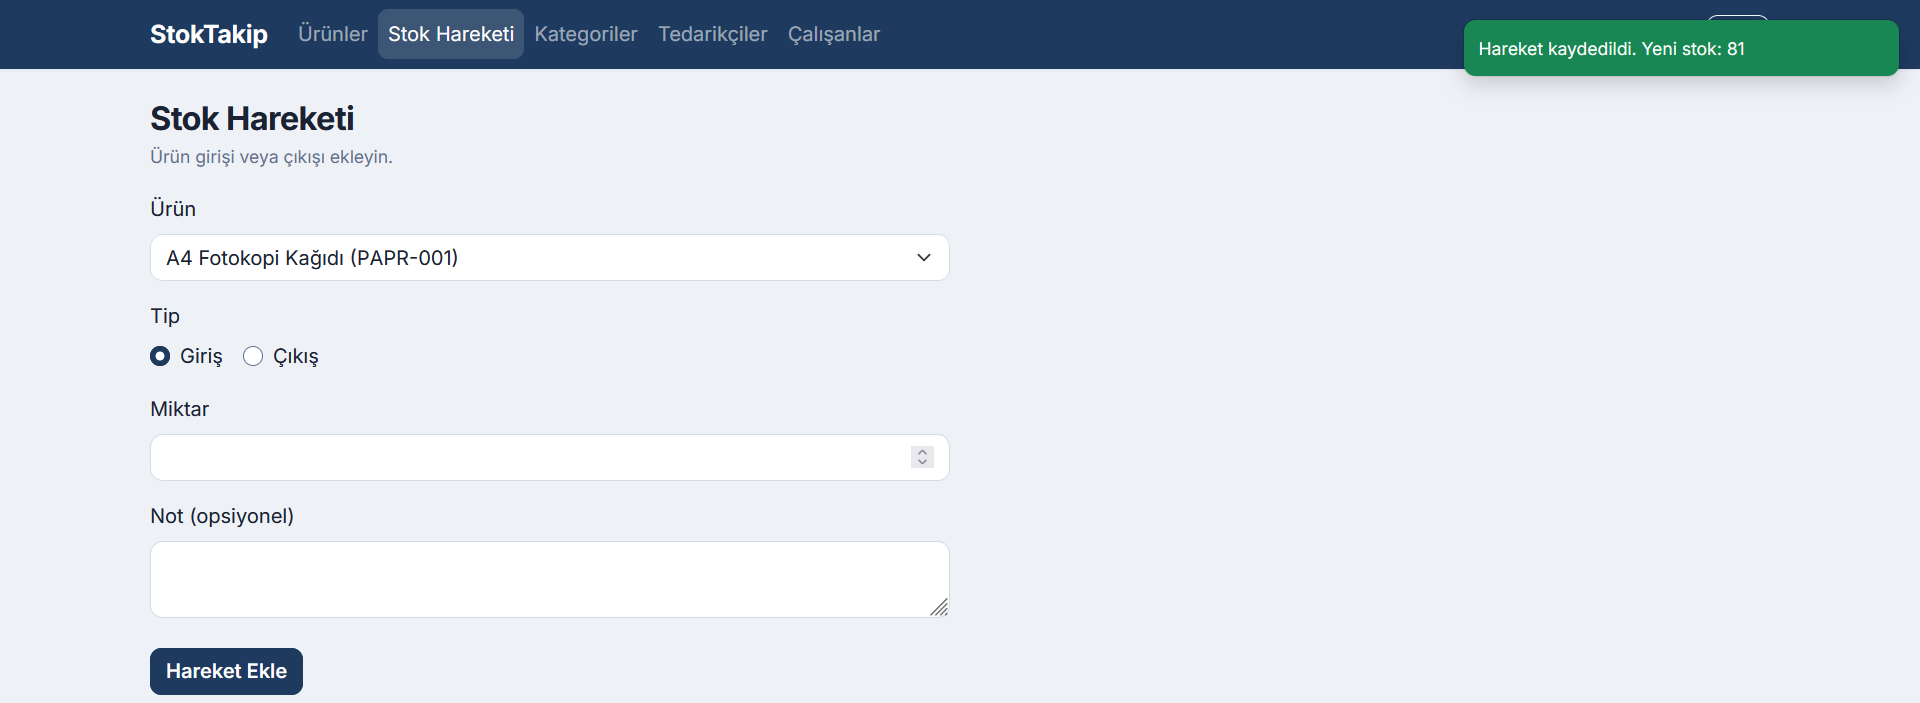
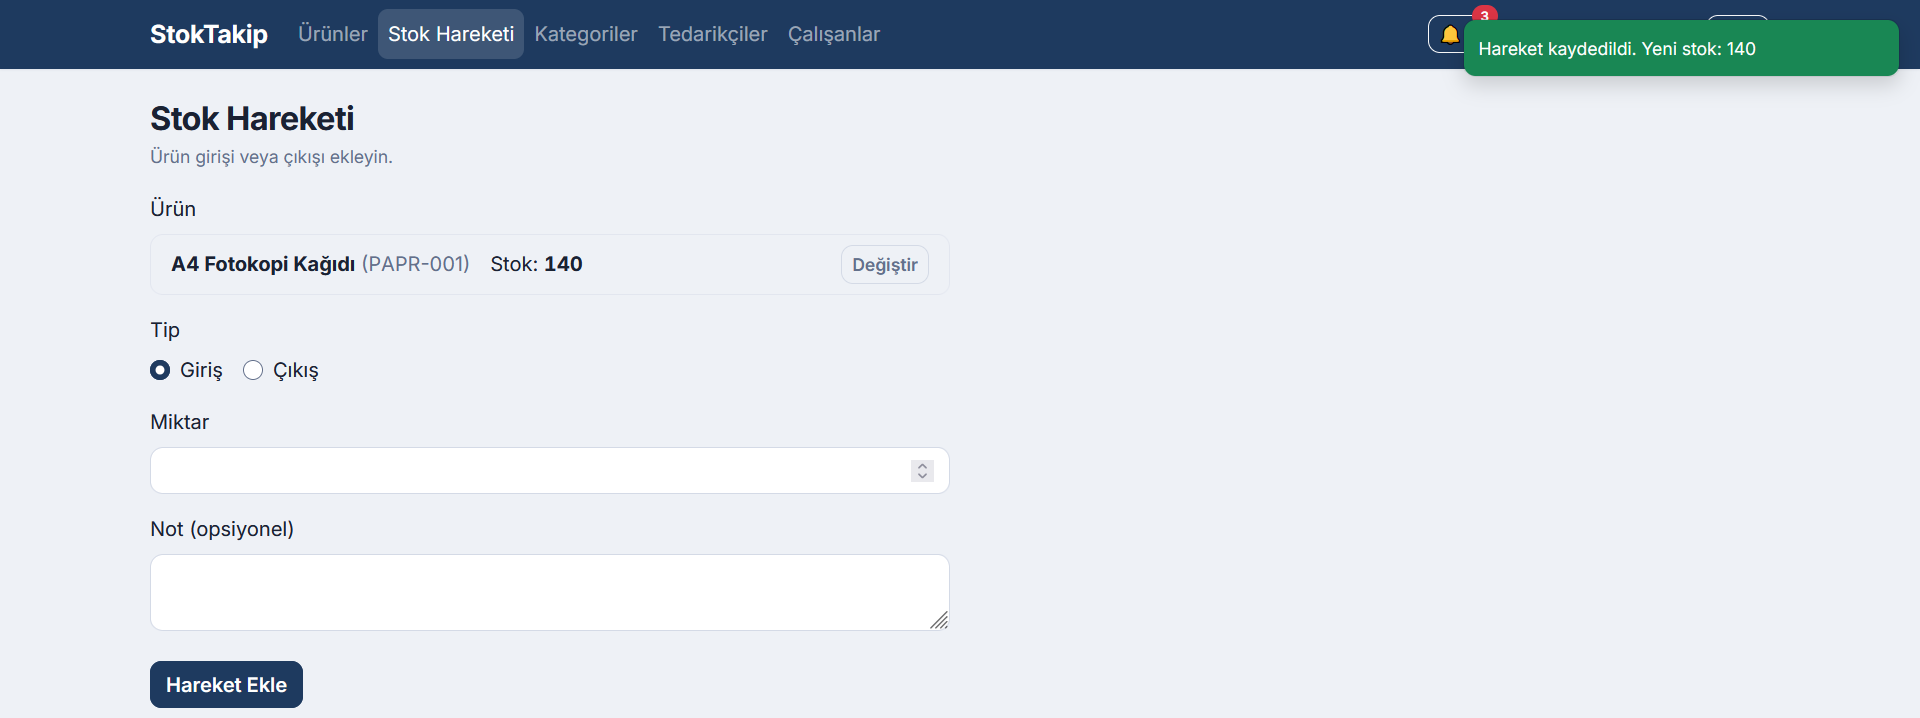
docs: README'yi gercek zamanli katmana gore guncelle
Ozellikler listesine canli envanter, bildirimler ve eszamanlilik korumasi
eklendi; urun filtreleri gercek haliyle yazildi (kategori, tedarikci, dusuk
stok, pasif). Teknolojilere SignalR ve @microsoft/signalr, nginx satirina
/hubs WebSocket upgrade eklendi. Mimari bolumunde hub'in Api katmaninda
oldugu ve Application'in SignalR'a referans vermedigi belirtildi. Seed
sayilari kesinlestirildi.

Ekran goruntuleri: stok hareketi yenilendi (bildirim zili ve urun secici),
bildirim paneli eklendi.

diff --git a/README.md b/README.md
@@ -18,8 +18,16 @@ admin'dedir.
 
 - Kategori, tedarikçi ve ürün için tam CRUD.
 - Stok giriş/çıkış hareketleri; hareket kaydı ile stok miktarı tek işlemde güncellenir.
-- Ürün araması (ad, SKU, kategori, tedarikçi) + kategori filtresi + sayfalama.
+- Ürün araması (ad, SKU, kategori, tedarikçi); kategori, tedarikçi, düşük stok ve pasif
+  kayıt filtreleri; sayfalama.
 - Düşük stok ve pasif ürün rozetleri, stok değeri özeti.
+- Gerçek zamanlı envanter: bir kullanıcının girdiği hareket, açık olan diğer oturumların
+  ürün listesinde ve özet kutularında sayfa yenilemeden görünür.
+- Bildirimler: düşük stok, tükenme ve yetersiz stok nedeniyle reddedilen çıkış olayları
+  admin'in zil rozetine anlık düşer. Kayıtlar veritabanında tutulur; admin çevrimdışıyken
+  üretilenler girişte görünür.
+- Eşzamanlılık koruması: aynı ürünü iki kişi aynı anda düzenlerse ikincisi çakışma uyarısı
+  alır, kayıp güncelleme oluşmaz.
 - Rol tabanlı yetkilendirme (Admin / Çalışan), JWT ile oturum.
 - Çift taraflı form doğrulama (backend DataAnnotations + frontend zod).
 
@@ -30,6 +38,7 @@ admin'dedir.
 - Entity Framework Core 10 + Npgsql (PostgreSQL sağlayıcısı)
 - PostgreSQL
 - ASP.NET Core Identity + JWT Bearer (rol tabanlı yetki: Admin / User — UI'da "Çalışan")
+- SignalR (gerçek zamanlı sinyal katmanı; hub yolu `/hubs/stok`)
 - Swagger (Swashbuckle) — yalnız geliştirme ortamında
 
 **Frontend**
@@ -38,10 +47,11 @@ admin'dedir.
 - react-hook-form + zod (form doğrulama)
 - Bootstrap 5 + react-bootstrap
 - axios (JWT interceptor)
+- @microsoft/signalr (hub istemcisi, otomatik yeniden bağlanma)
 
 **Altyapı**
 - Docker + Docker Compose (multi-stage build)
-- nginx (frontend statik sunum + `/api` ters proxy)
+- nginx (frontend statik sunum, `/api` ters proxy ve `/hubs` WebSocket upgrade)
 
 ### Mimari
 
@@ -58,7 +68,7 @@ graph TD
 - **Domain** — framework bağımsız POCO entity'ler ve enum.
 - **Application** — iş kuralları, servisler, DTO'lar; `IAppDbContext` soyutlaması üzerinden çalışır, veritabanı sağlayıcısını tanımaz.
 - **Infrastructure** — EF Core DbContext, migration'lar, seed, Identity ve JWT üretimi.
-- **Api** — ince controller'lar, bağımlılık kaydı, middleware.
+- **Api** — ince controller'lar, bağımlılık kaydı, middleware, SignalR hub'ı. Application yalnız framework bağımsız bir bildirim arayüzü tanır; SignalR'a referans vermez.
 
 ## Kurulum
 
@@ -80,8 +90,9 @@ Servisler ayağa kalktığında uygulama şu adreste hazırdır:
 **http://localhost:3000**
 
 Uygulama ilk açılışta veritabanı şemasını oluşturur ve örnek verilerle
-(4 kategori, 3 tedarikçi, 12 ürün ve stok hareketleri) doldurur. Ek bir
-komut gerekmez.
+(4 kategori, 3 tedarikçi, 12 ürün, 22 stok hareketi) doldurur. Aralarında bilerek
+birer pasif tedarikçi ve pasif ürün vardır; listelerde soluk görünmeleri normaldir.
+Ek bir komut gerekmez.
 
 Durdurmak için: `docker compose down`
 Verileri de silerek sıfırlamak için: `docker compose down -v`
@@ -111,3 +122,4 @@ hazır gelir.
 ![Ürün listesi](screenshots/02-urun-listesi.png)
 ![Ürün detayı ve hareket geçmişi](screenshots/03-urun-detay.png)
 ![Stok hareketi](screenshots/04-stok-hareketi.png)
+![Bildirim paneli](screenshots/05-bildirim-ekrani.png)
